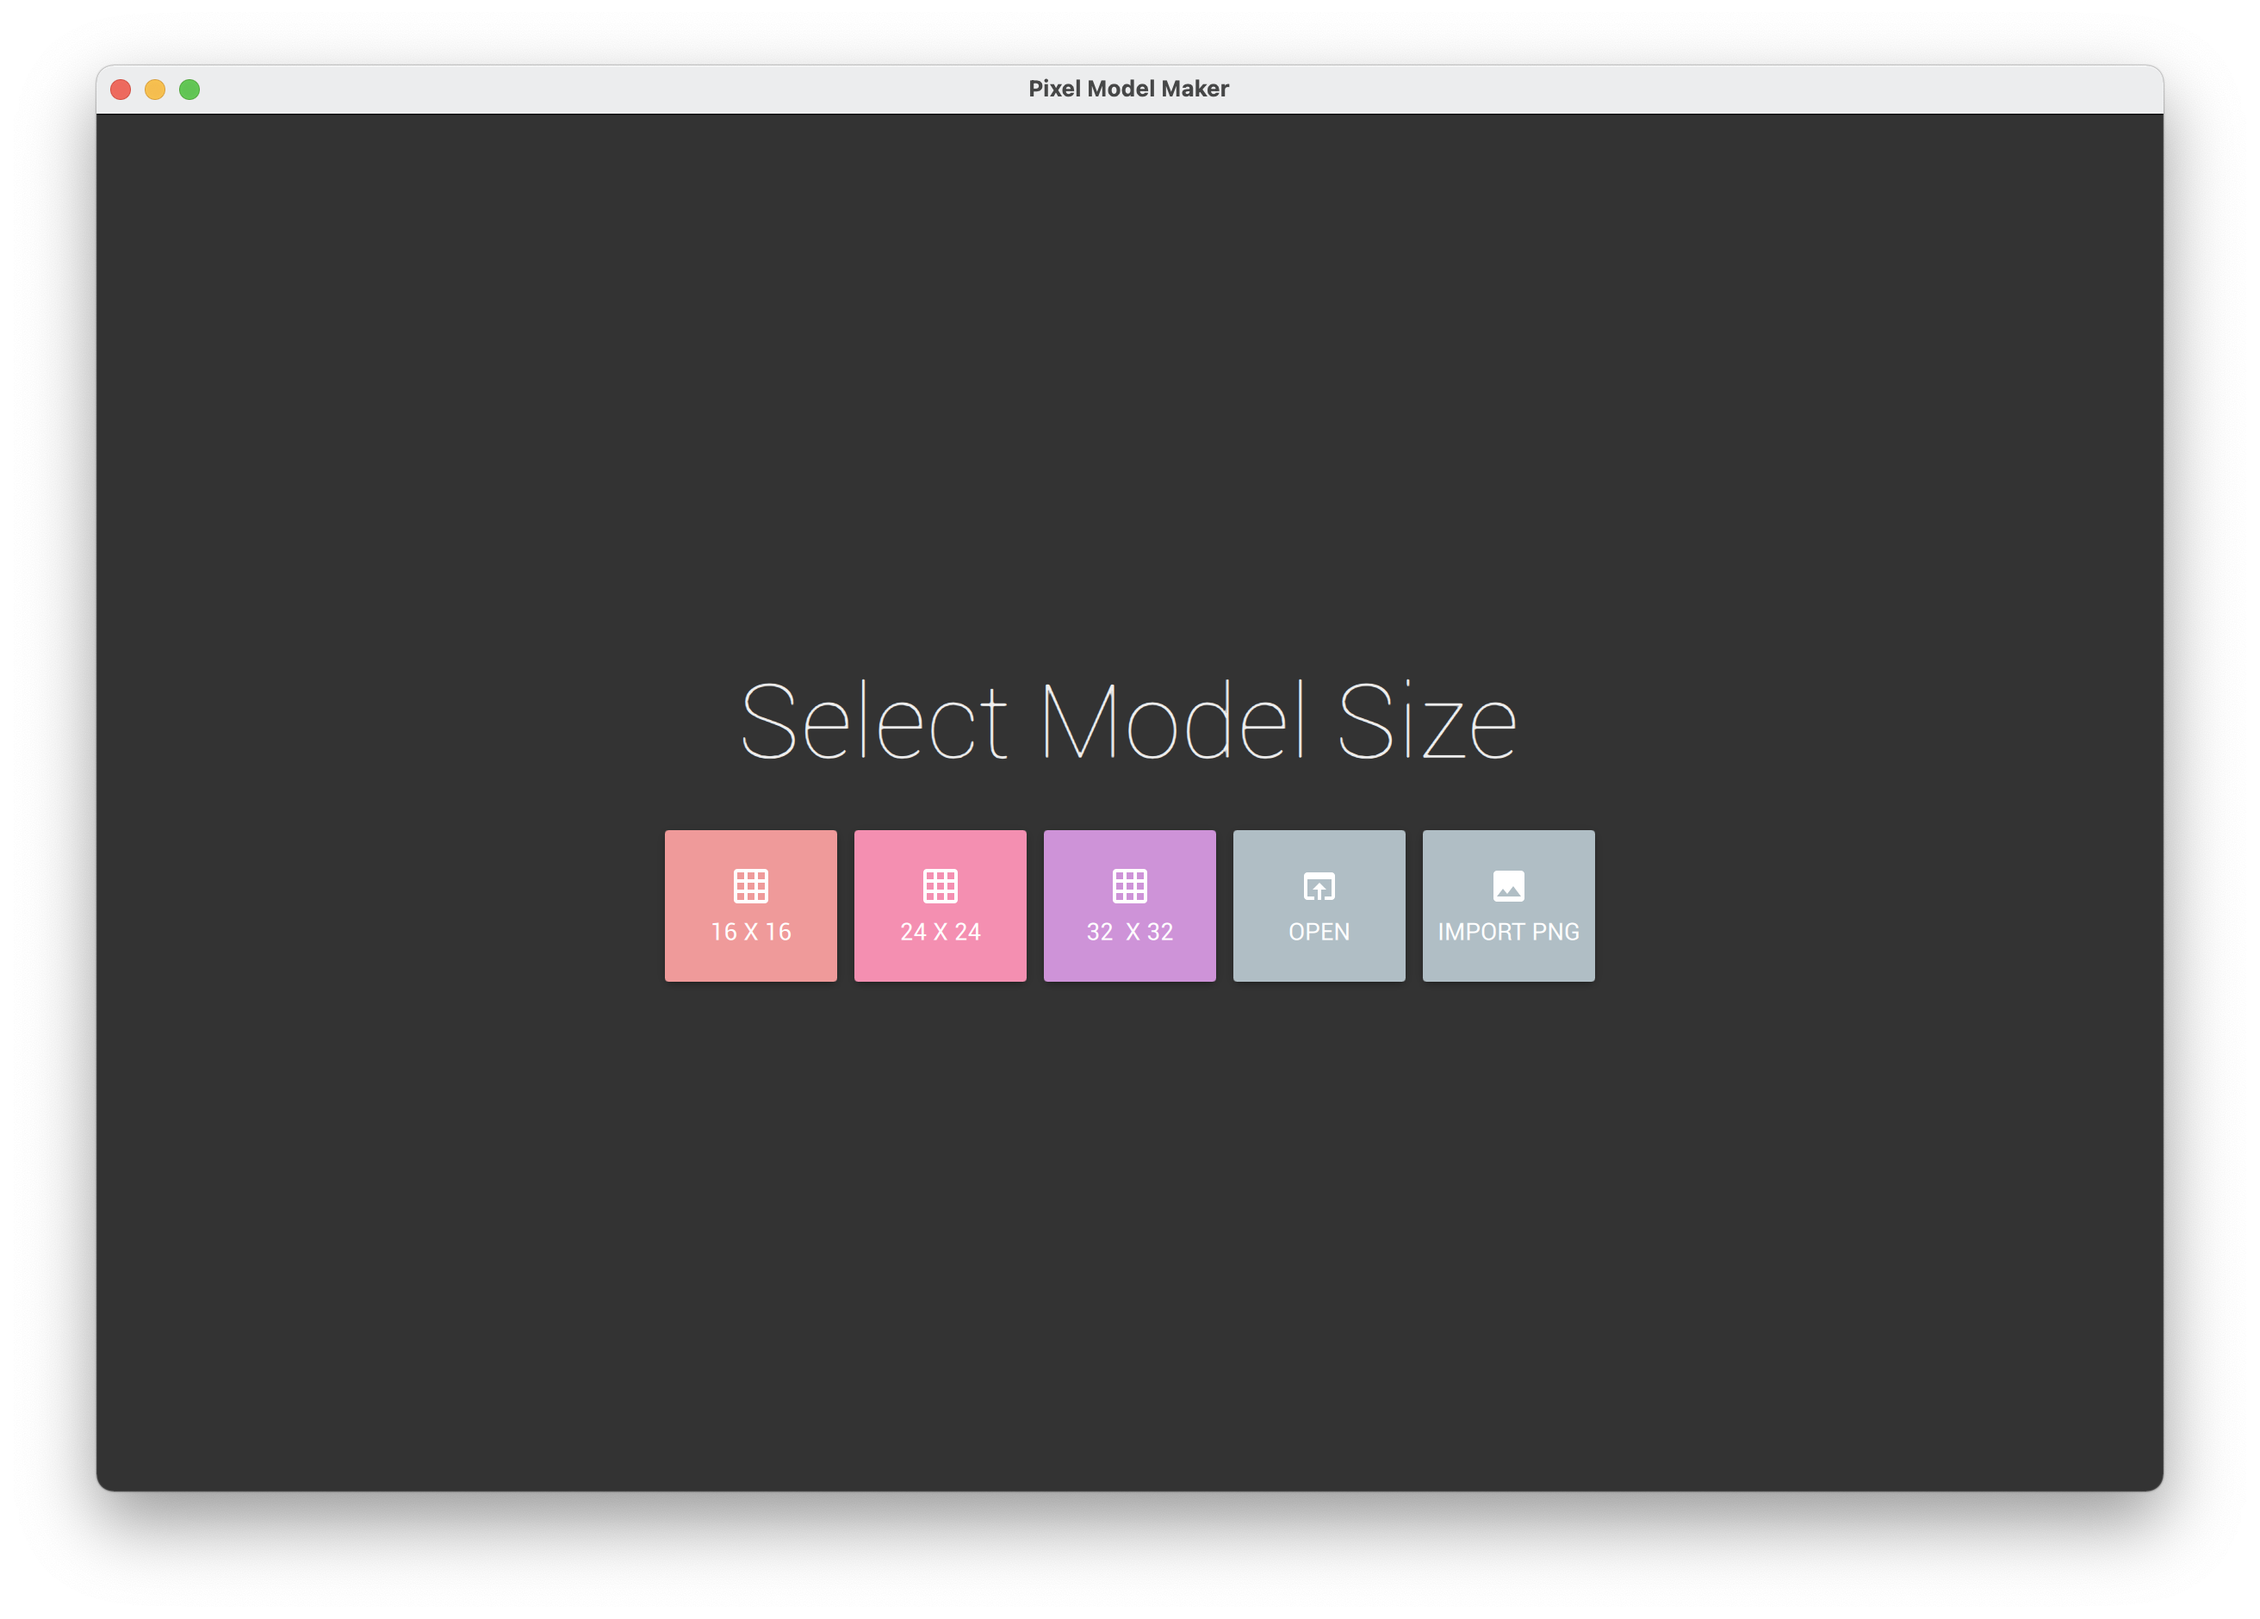
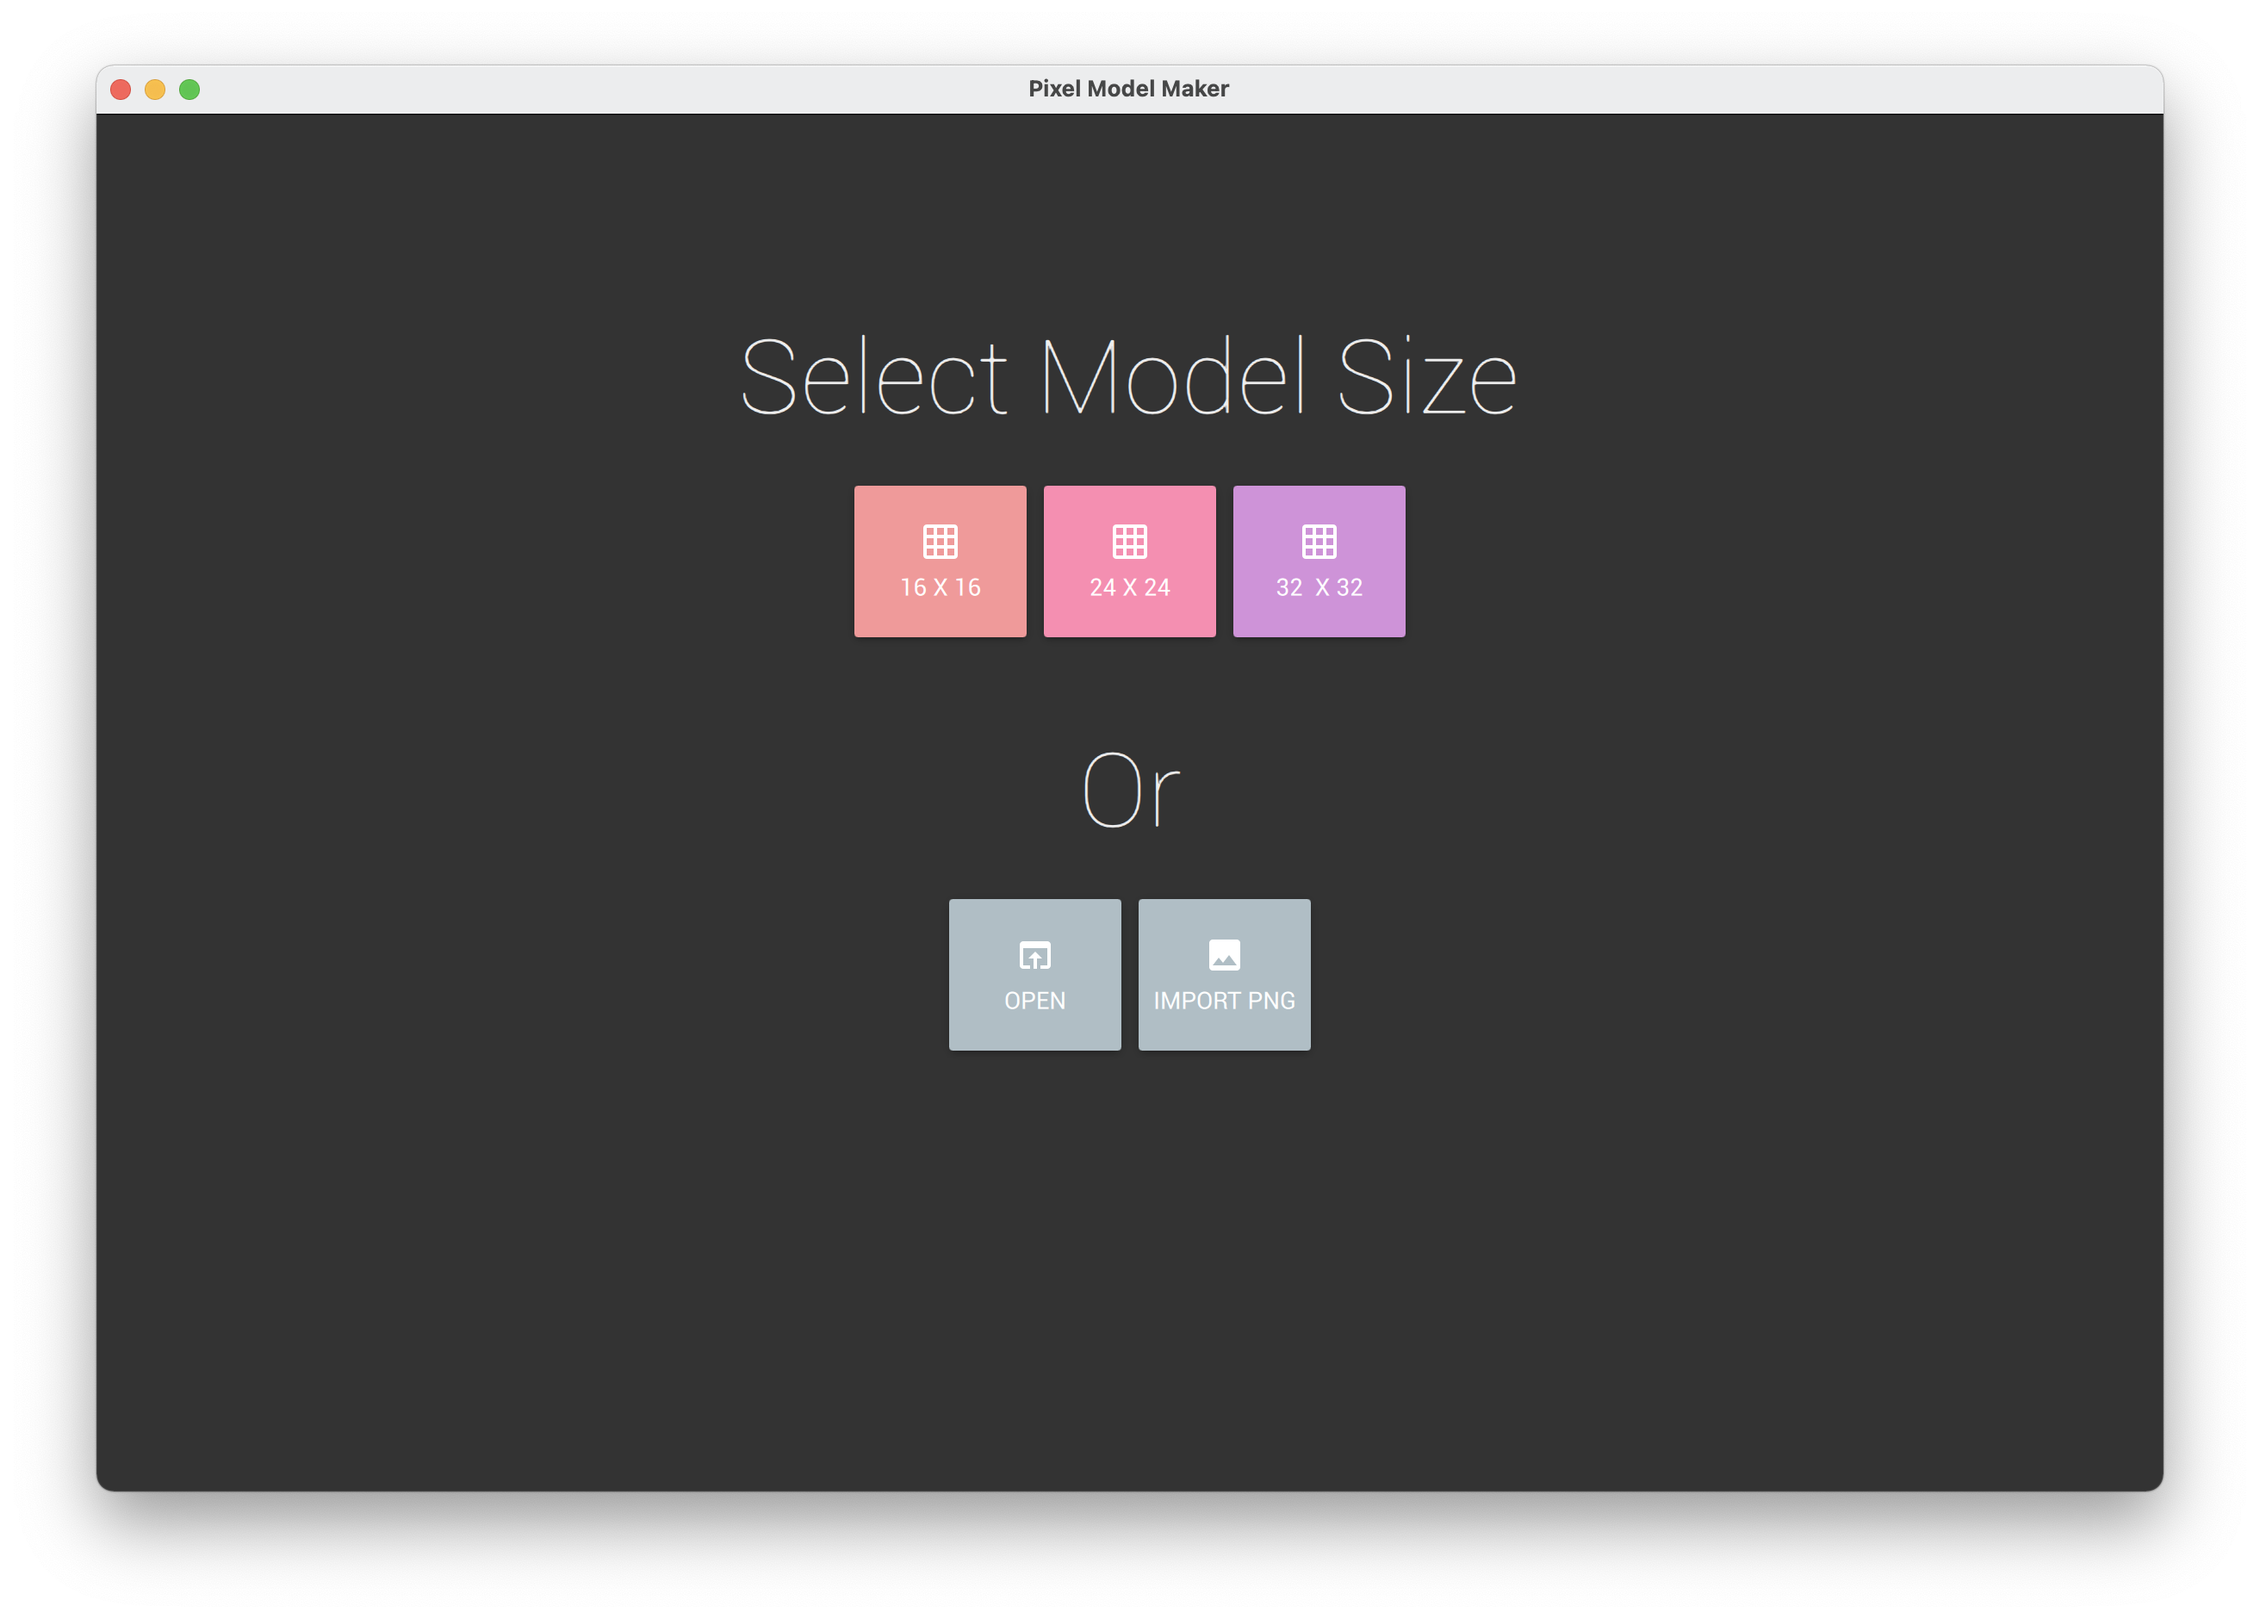
change welcome screen layout

diff --git a/ui/SizeSelector.qml b/ui/SizeSelector.qml
@@ -19,112 +19,137 @@ Rectangle {
 
     property bool fileOpnedWithSuccess: false
 
-    Item {
-        id: row1
-        x: 0
+    Column {
         width: parent.width
-        height: parent.height / 2
-        anchors.top: parent.top
-        anchors.topMargin: 0
-
-        Text {
-            id: text1
-            color: Constants.titleColor
-            text: qsTr("Select Model Size")
-            anchors.bottom: parent.bottom
-            font.pixelSize: 60
-            horizontalAlignment: Text.AlignHCenter
-            verticalAlignment: Text.AlignVCenter
-            padding: 10
-            font.styleName: "Thin"
-            anchors.bottomMargin: 0
-            anchors.horizontalCenter: parent.horizontalCenter
-            font.family: "Roboto"
-            font.weight: Font.Medium
+        height: parent.height
+        Item {
+            id: row1
+            width: parent.width
+            height: 200
+            Text {
+                id: text1
+                color: Constants.titleColor
+                text: qsTr("Select Model Size")
+                anchors.bottom: parent.bottom
+                font.pixelSize: 60
+                horizontalAlignment: Text.AlignHCenter
+                verticalAlignment: Text.AlignVCenter
+                padding: 10
+                font.styleName: "Thin"
+                anchors.bottomMargin: 0
+                anchors.horizontalCenter: parent.horizontalCenter
+                font.family: "Roboto"
+                font.weight: Font.Medium
+            }
         }
-    }
-    Item {
-        id: row2
-        x: 0
-        y: parent.height / 2
-        width: parent.width
-        height: parent.height / 2
-        anchors.bottom: parent.bottom
-        anchors.bottomMargin: 0
+        Item {
+            id: row2
+            width: parent.width
+            height: 120
+            Row {
+                spacing: 10
+                padding: 10
+                anchors.horizontalCenter: parent.horizontalCenter
 
-        Row {
-            spacing: 10
-            padding: 10
-            anchors.horizontalCenter: parent.horizontalCenter
+                Button {
+                    id: button_16
+                    width: 100
+                    height: 100
+                    text: qsTr("16 X 16")
+                    font.styleName: "Regular"
+                    highlighted: true
+                    icon.source: "qrc:/ui/images/ic_grid_on_48px.svg"
+                    display: AbstractButton.TextUnderIcon
+                    Material.accent: Material.Red
+                }
 
-            Button {
-                id: button_16
-                width: 100
-                height: 100
-                text: qsTr("16 X 16")
-                font.styleName: "Regular"
-                highlighted: true
-                icon.source: "qrc:/ui/images/ic_grid_on_48px.svg"
-                display: AbstractButton.TextUnderIcon
-                Material.accent: Material.Red
-            }
+                Button {
+                    id: button_24
+                    width: 100
+                    height: 100
+                    text: qsTr("24 X 24")
+                    font.styleName: "Regular"
+                    highlighted: true
+                    icon.source: "qrc:/ui/images/ic_grid_on_48px.svg"
+                    display: AbstractButton.TextUnderIcon
+                    Material.accent: Material.Pink
+                }
 
-            Button {
-                id: button_24
-                width: 100
-                height: 100
-                text: qsTr("24 X 24")
-                font.styleName: "Regular"
-                highlighted: true
-                icon.source: "qrc:/ui/images/ic_grid_on_48px.svg"
-                display: AbstractButton.TextUnderIcon
-                Material.accent: Material.Pink
-            }
-
-            Button {
-                id: button_32
-                width: 100
-                height: 100
-                text: qsTr("32  X 32")
-                font.styleName: "Regular"
-                highlighted: true
-                icon.source: "qrc:/ui/images/ic_grid_on_48px.svg"
-                display: AbstractButton.TextUnderIcon
-                Material.accent: Material.Purple
-            }
-
-            Button {
-                id: button_open
-                width: 100
-                height: 100
-                text: qsTr("Open")
-                font.styleName: "Regular"
-                highlighted: true
-                icon.source: "qrc:/ui/images/open_in_browser_black_48dp.svg"
-                display: AbstractButton.TextUnderIcon
-                Material.accent: Material.BlueGrey
-
-                onClicked: {
-                    fileOpnedWithSuccess = false
-                    openFileDialog.file = ""
-                    io.reset()
-                    openFileDialog.open()
+                Button {
+                    id: button_32
+                    width: 100
+                    height: 100
+                    text: qsTr("32  X 32")
+                    font.styleName: "Regular"
+                    highlighted: true
+                    icon.source: "qrc:/ui/images/ic_grid_on_48px.svg"
+                    display: AbstractButton.TextUnderIcon
+                    Material.accent: Material.Purple
                 }
             }
-            Button {
-                id: button_import
-                width: 100
-                height: 100
-                text: qsTr("Import PNG")
-                font.styleName: "Regular"
-                highlighted: true
-                icon.source: "qrc:/ui/images/insert_photo_black_48dp.svg"
-                display: AbstractButton.TextUnderIcon
-                Material.accent: Material.BlueGrey
+        }
+        Item {
+            id: row3
+            width: parent.width
+            height: 120
+            Text {
+                id: text2
+                color: Constants.titleColor
+                text: qsTr("Or")
+                anchors.bottom: parent.bottom
+                font.pixelSize: 60
+                horizontalAlignment: Text.AlignHCenter
+                verticalAlignment: Text.AlignVCenter
+                padding: 10
+                font.styleName: "Thin"
+                anchors.bottomMargin: 0
+                anchors.horizontalCenter: parent.horizontalCenter
+                font.family: "Roboto"
+                font.weight: Font.Medium
+            }
+        }
+        Item {
+            id: row4
+            width: parent.width
+            height: 120
+            Row {
+                spacing: 10
+                padding: 10
+                anchors.horizontalCenter: parent.horizontalCenter
 
-                onClicked: {
-                    importPNGDialog.file = ""
-                    importPNGDialog.open()
+                Button {
+                    id: button_open
+                    width: 100
+                    height: 100
+                    text: qsTr("Open")
+                    font.styleName: "Regular"
+                    highlighted: true
+                    icon.source: "qrc:/ui/images/open_in_browser_black_48dp.svg"
+                    display: AbstractButton.TextUnderIcon
+                    Material.accent: Material.BlueGrey
+
+                    onClicked: {
+                        fileOpnedWithSuccess = false
+                        openFileDialog.file = ""
+                        io.reset()
+                        openFileDialog.open()
+                    }
+                }
+                Button {
+                    id: button_import
+                    width: 100
+                    height: 100
+                    text: qsTr("Import PNG")
+                    font.styleName: "Regular"
+                    highlighted: true
+                    icon.source: "qrc:/ui/images/insert_photo_black_48dp.svg"
+                    display: AbstractButton.TextUnderIcon
+                    Material.accent: Material.BlueGrey
+
+                    onClicked: {
+                        importPNGDialog.file = ""
+                        importPNGDialog.open()
+                    }
                 }
             }
         }
